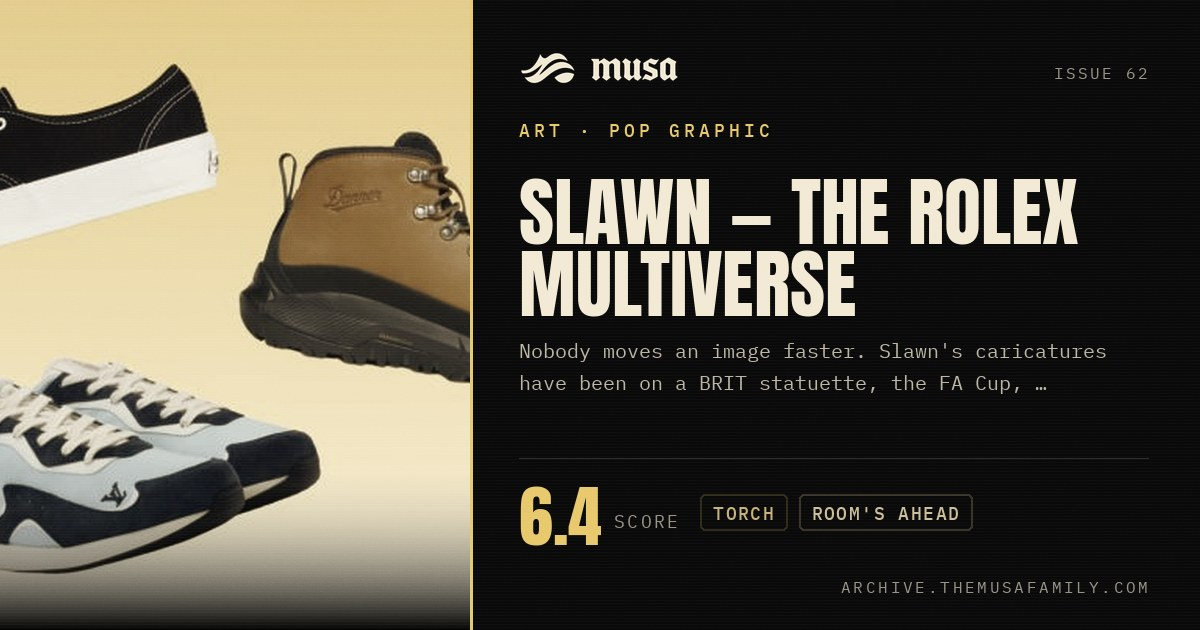
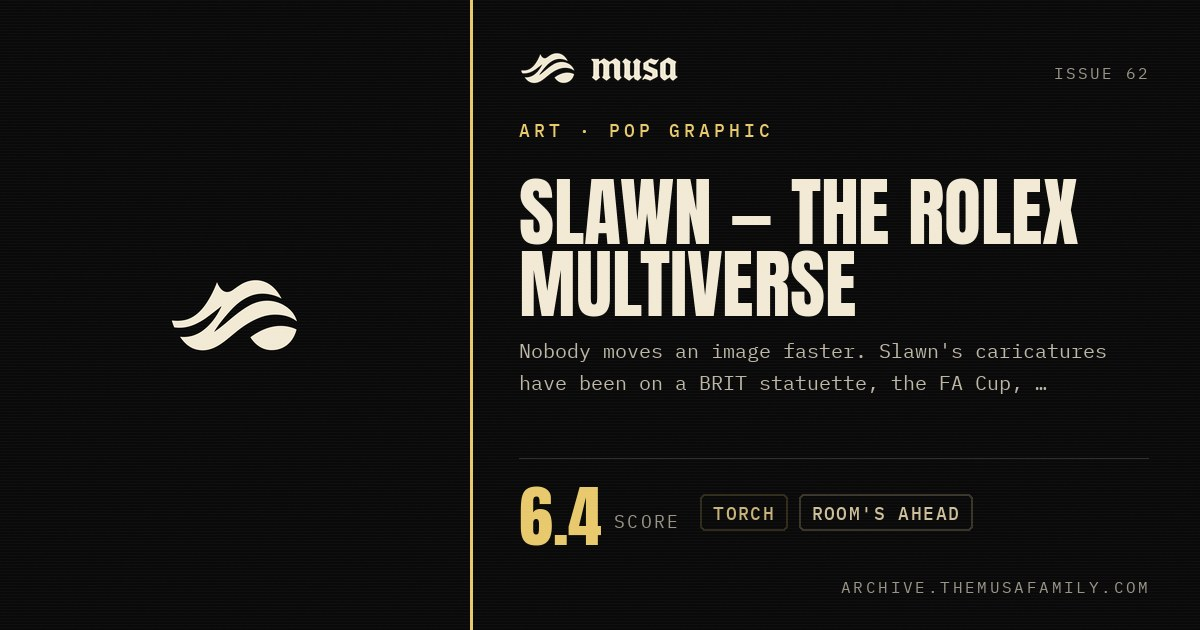
artfill: refuse template art with no tie to the entry; fix Slawn image

diff --git a/i/slawn-the-rolex-multiverse/index.html b/i/slawn-the-rolex-multiverse/index.html
@@ -131,7 +131,7 @@ footer b{font-family:var(--mono);font-size:9px;color:#b8b09c;letter-spacing:.2em
 </header>
 <div class="eyebrow">ISSUE 62 &nbsp;·&nbsp; <span class="a">AUG 20 2026</span> &nbsp;·&nbsp; ART · POP GRAPHIC</div>
 <h1>Slawn — The Rolex Multiverse</h1>
-<figure class="art"><img src="https://pausemag.co.uk/wp-content/uploads/2026/08/Copy-of-Untitled-1200-x-800-px-7-600x403.png" alt="Slawn — The Rolex Multiverse" loading="lazy" onerror="this.onerror=null;this.src='https://archive.themusafamily.com/img/musa-mark.png';this.style.objectFit='contain';this.style.background='#0a0a0a'"></figure>
+<figure class="art"><img src="https://images.complex.com/complex/image/upload/c_crop,h_679,w_1206,x_0,y_0/g_auto:aoi_228_288_241_136,ar_1.91,c_fill,q_auto,w_1200/sanity-new/tslwa4utxxsmxbzsdnxz" alt="Slawn — The Rolex Multiverse" loading="lazy" onerror="this.onerror=null;this.src='https://archive.themusafamily.com/img/musa-mark.png';this.style.objectFit='contain';this.style.background='#0a0a0a'"></figure>
 <div class="read">Nobody moves an image faster. Slawn&#x27;s caricatures have been on a BRIT statuette, the FA Cup, Nigeria&#x27;s World Cup kit and, since Tuesday, a Playboi Carti chain; the Rolex Multiverse puts them on twelve one-of-one watches released one at a time across August. His 2024 Rolex run sold out in four minutes. The placements have traveled further than the paintings. Come back when there is a show with no logo in the room.</div>
 <div class="rail">
   <span class="sc">6.4<small>SCORE</small></span>

diff --git a/build/artfill.py b/build/artfill.py
@@ -52,6 +52,47 @@ JUNK = re.compile(r"(logo|favicon|sprite|placeholder|default[-_.]|avatar|"
                   r"share[-_]?default|og[-_]?default|social[-_]?card|blank|"
                   r"spacer|1x1|pixel)", re.I)
 
+# Filename tells you nobody named this file after what is in it: a Canva export,
+# a phone screenshot, a CMS auto-name. These are usually a publication's generic
+# article graphic rather than a picture of the subject. Issue 62 shipped
+# "Copy-of-Untitled-1200-x-800-px-7-600x403.png" as the Slawn card — Pause Mag's
+# og:image is a template, and a size check cannot tell that from a photograph.
+# Not fatal on its own: allowed through only when the page ties it to the entry.
+GENERIC = re.compile(r"("
+                     r"copy[-_ ]of[-_ ]untitled|untitled[-_ ]?design|^untitled|"
+                     r"screen[-_ ]?shot|screenshot|unnamed|"
+                     r"^(image|img|photo|pic|file|download|upload)[-_ ]?\d*$|"
+                     r"^\d{2,4}x\d{2,4}$|^(final|new|temp|draft)\d*$|"
+                     r"web[-_ ]?banner|featured[-_ ]?image|hero[-_ ]?image"
+                     r")", re.I)
+
+STOP = {"the", "and", "for", "with", "from", "that", "this", "vol", "feat",
+        "presents", "records", "gallery", "museum", "foundation", "studio",
+        "collective", "project", "issue", "part", "his", "her", "their"}
+
+
+def tokens(name):
+    """Distinctive words from an entry name, for tying an image to its subject."""
+    name = re.sub(r"[—–\-|:/,'\u2019]", " ", (name or "").lower())
+    out = set()
+    for w in re.findall(r"[a-z0-9]{3,}", name):
+        if w in STOP or w.isdigit():
+            continue
+        out.add(w)
+    return out
+
+
+def relevant(url, toks, alts):
+    """Does anything tie this image to the entry? URL path, or its alt text."""
+    path = urlparse(url).path.lower() + " " + (urlparse(url).query or "").lower()
+    slug = re.sub(r"[^a-z0-9]+", " ", path)
+    if any(t in slug for t in toks):
+        return "url"
+    alt = (alts.get(url) or "").lower()
+    if alt and any(t in alt for t in toks):
+        return "alt"
+    return None
+
 # ordered by how much we trust them
 META_PATTERNS = [
     r'<meta[^>]+property=["\']og:image:secure_url["\'][^>]+content=["\']([^"\']+)',
@@ -76,10 +117,14 @@ def get(url, cap=None, accept="*/*"):
 
 
 def candidates(html, base):
-    """og:image first, then twitter, then the biggest-looking inline image."""
-    seen, out = set(), []
+    """og:image first, then twitter, then the biggest-looking inline image.
 
-    def add(u):
+    Returns (ordered_urls, alt_by_url) — alt text is how an anonymously named
+    image proves it is actually about the entry.
+    """
+    seen, out, alts = set(), [], {}
+
+    def add(u, alt=None):
         if not u:
             return
         u = unescape(u.strip())
@@ -90,6 +135,8 @@ def candidates(html, base):
             return
         if urlparse(u).netloc in OURS:
             return
+        if alt:
+            alts.setdefault(u, unescape(alt))
         if u not in seen:
             seen.add(u)
             out.append(u)
@@ -104,16 +151,15 @@ def candidates(html, base):
         for u in re.findall(r'https?://[^"\'\\\s]+', m.group(1)):
             add(u)
 
-    # last resort: inline <img> that isn't obviously chrome
-    if not out:
-        for m in re.finditer(r'<img[^>]+src=["\']([^"\']+)["\']', html[:250_000], re.I):
-            u = m.group(1)
-            if not JUNK.search(u):
-                add(u)
-            if len(out) >= 8:
-                break
+    # every inline <img>, for its alt text as much as for its src
+    for m in re.finditer(r'<img[^>]+>', html[:250_000], re.I):
+        tag = m.group(0)
+        src = re.search(r'\ssrc=["\']([^"\']+)["\']', tag, re.I)
+        alt = re.search(r'\salt=["\']([^"\']*)["\']', tag, re.I)
+        if src and not JUNK.search(src.group(1)):
+            add(src.group(1), alt.group(1) if alt else None)
 
-    return [u for u in out if not JUNK.search(urlparse(u).path)]
+    return [u for u in out if not JUNK.search(urlparse(u).path)], alts
 
 
 def usable(url):
@@ -143,6 +189,50 @@ def usable(url):
     if min(w, h) < MIN_EDGE:
         return None, "small:%dx%d" % (w, h)
     return url, "ok:%dx%d" % (w, h)
+
+
+def suspects(led):
+    """Filled entries whose art looks like a template graphic rather than a picture."""
+    out = []
+    for iss in led.get("issues", []):
+        for e in iss.get("entries", []):
+            img = (e.get("image") or "").strip()
+            if not img or img == MARK:
+                continue
+            base = re.sub(r"\.[a-z0-9]{2,5}$", "", os.path.basename(urlparse(img).path))
+            if GENERIC.search(base) and not relevant(img, tokens(e.get("name")), {}):
+                out.append({"issue": iss.get("issue"), "name": e.get("name"),
+                            "slug": e.get("slug"), "url": e.get("url"), "image": img})
+    return out
+
+
+def audit(fix=False):
+    """Flag already-filled entries the relevance gate would now refuse.
+
+    Pure string work, no network, so it runs anywhere. With --fix the offenders
+    go back to the mark and into the review queue, where a session can resolve
+    them by hand — which is the only thing that reliably beats a template graphic.
+    """
+    led = json.load(open(LEDGER, encoding="utf-8"))
+    bad = suspects(led)
+    byslug = {}
+    for iss in led.get("issues", []):
+        for e in iss.get("entries", []):
+            byslug[e.get("slug") or e.get("name")] = e
+
+    for s_ in bad:
+        print("  SUSPECT i%-3s %-40s %s" % (s_["issue"], (s_["name"] or "")[:40],
+                                            os.path.basename(urlparse(s_["image"]).path)[:52]))
+        if fix:
+            byslug[s_["slug"] or s_["name"]]["image"] = MARK
+    print("audit: %d filled entr%s look like template art"
+          % (len(bad), "y" if len(bad) == 1 else "ies"))
+    print("audit: report only by default — a phone-named file on a label's own page is\n"
+          "       often the real artwork, so confirm before --fix reverts it to the mark")
+    if fix and bad:
+        json.dump(led, open(LEDGER, "w", encoding="utf-8"), ensure_ascii=False, indent=1)
+        print("audit: reverted to the mark and queued for review")
+    return 0
 
 
 def main():
@@ -200,11 +290,37 @@ def main():
             failed += 1
             continue
 
+        cands, alts = candidates(html, final)
+        toks = tokens(e.get("name"))
+        own = urlparse(final).netloc
+
+        # Score before validating: a tie to the entry is worth more than being
+        # first in the meta block. An anonymously named file with nothing tying
+        # it to the subject is refused outright — that is the Slawn failure, and
+        # a wrong picture is worse than the mark, which at least reads as brand.
+        ranked = []
+        for pos, c in enumerate(cands):
+            tie = relevant(c, toks, alts)
+            base = re.sub(r"\.[a-z0-9]{2,5}$", "", os.path.basename(urlparse(c).path))
+            generic = bool(GENERIC.search(base))
+            selfhosted = urlparse(c).netloc.split(".")[-2:] == own.split(".")[-2:]
+            if generic and not tie:
+                continue
+            score = (3 if tie == "url" else 2 if tie == "alt" else 0)
+            score += 1 if selfhosted else 0
+            score -= pos * 0.1
+            ranked.append((-score, pos, c, tie))
+        ranked.sort()
+
         picked = reason = None
-        for cand in candidates(html, final)[:4]:
+        for _, _, cand, tie in ranked[:4]:
             picked, reason = usable(cand)
             if picked:
+                reason = "%s tie:%s" % (reason, tie or "none")
                 break
+
+        if not picked and not ranked and cands:
+            reason = "only generic art on page (%d rejected)" % len(cands)
 
         if picked:
             e["image"] = picked
@@ -221,15 +337,35 @@ def main():
     if filled:
         json.dump(led, open(LEDGER, "w", encoding="utf-8"), ensure_ascii=False, indent=1)
 
-    json.dump({"note": "entries artfill could not resolve; retried at most %d times ever" % MAX_ATTEMPTS,
-               "updated": time.strftime("%Y-%m-%d"), "misses": state},
+    # Anything still on the mark that HAS a source is a job for a person, not a
+    # heuristic: a session can look at a picture and say whether it is the right
+    # one. Surfaced here so it can be worked at the top of a run.
+    review = []
+    for iss in led.get("issues", []):
+        for e in iss.get("entries", []):
+            if (e.get("image") or "") in ("", MARK) and (e.get("url") or "").strip():
+                review.append({"issue": iss.get("issue"), "name": e.get("name"),
+                               "slug": e.get("slug"), "url": e.get("url"),
+                               "reason": state.get(e.get("slug") or e.get("name", ""), {})
+                                              .get("reason", "not attempted yet")})
+
+    json.dump({"note": "misses = auto-resolution failed and stops retrying after %d. "
+                       "review = still on the mark but has a source. "
+                       "suspects = filled, but the art looks like a template graphic. "
+                       "Both want a human eye."
+                       % MAX_ATTEMPTS,
+               "updated": time.strftime("%Y-%m-%d"),
+               "review": review, "suspects": suspects(led), "misses": state},
               open(STATE, "w", encoding="utf-8"), ensure_ascii=False, indent=1)
 
     still = sum(1 for iss in led.get("issues", []) for e in iss.get("entries", [])
                 if (e.get("image") or "") in ("", MARK))
-    print("artfill: %d filled, %d missed, %d entries still on the mark" % (filled, failed, still))
+    print("artfill: %d filled, %d missed, %d on the mark, %d queued for review"
+          % (filled, failed, still, len(review)))
     return 0
 
 
 if __name__ == "__main__":
+    if "--audit" in sys.argv:
+        sys.exit(audit(fix="--fix" in sys.argv))
     sys.exit(main())
